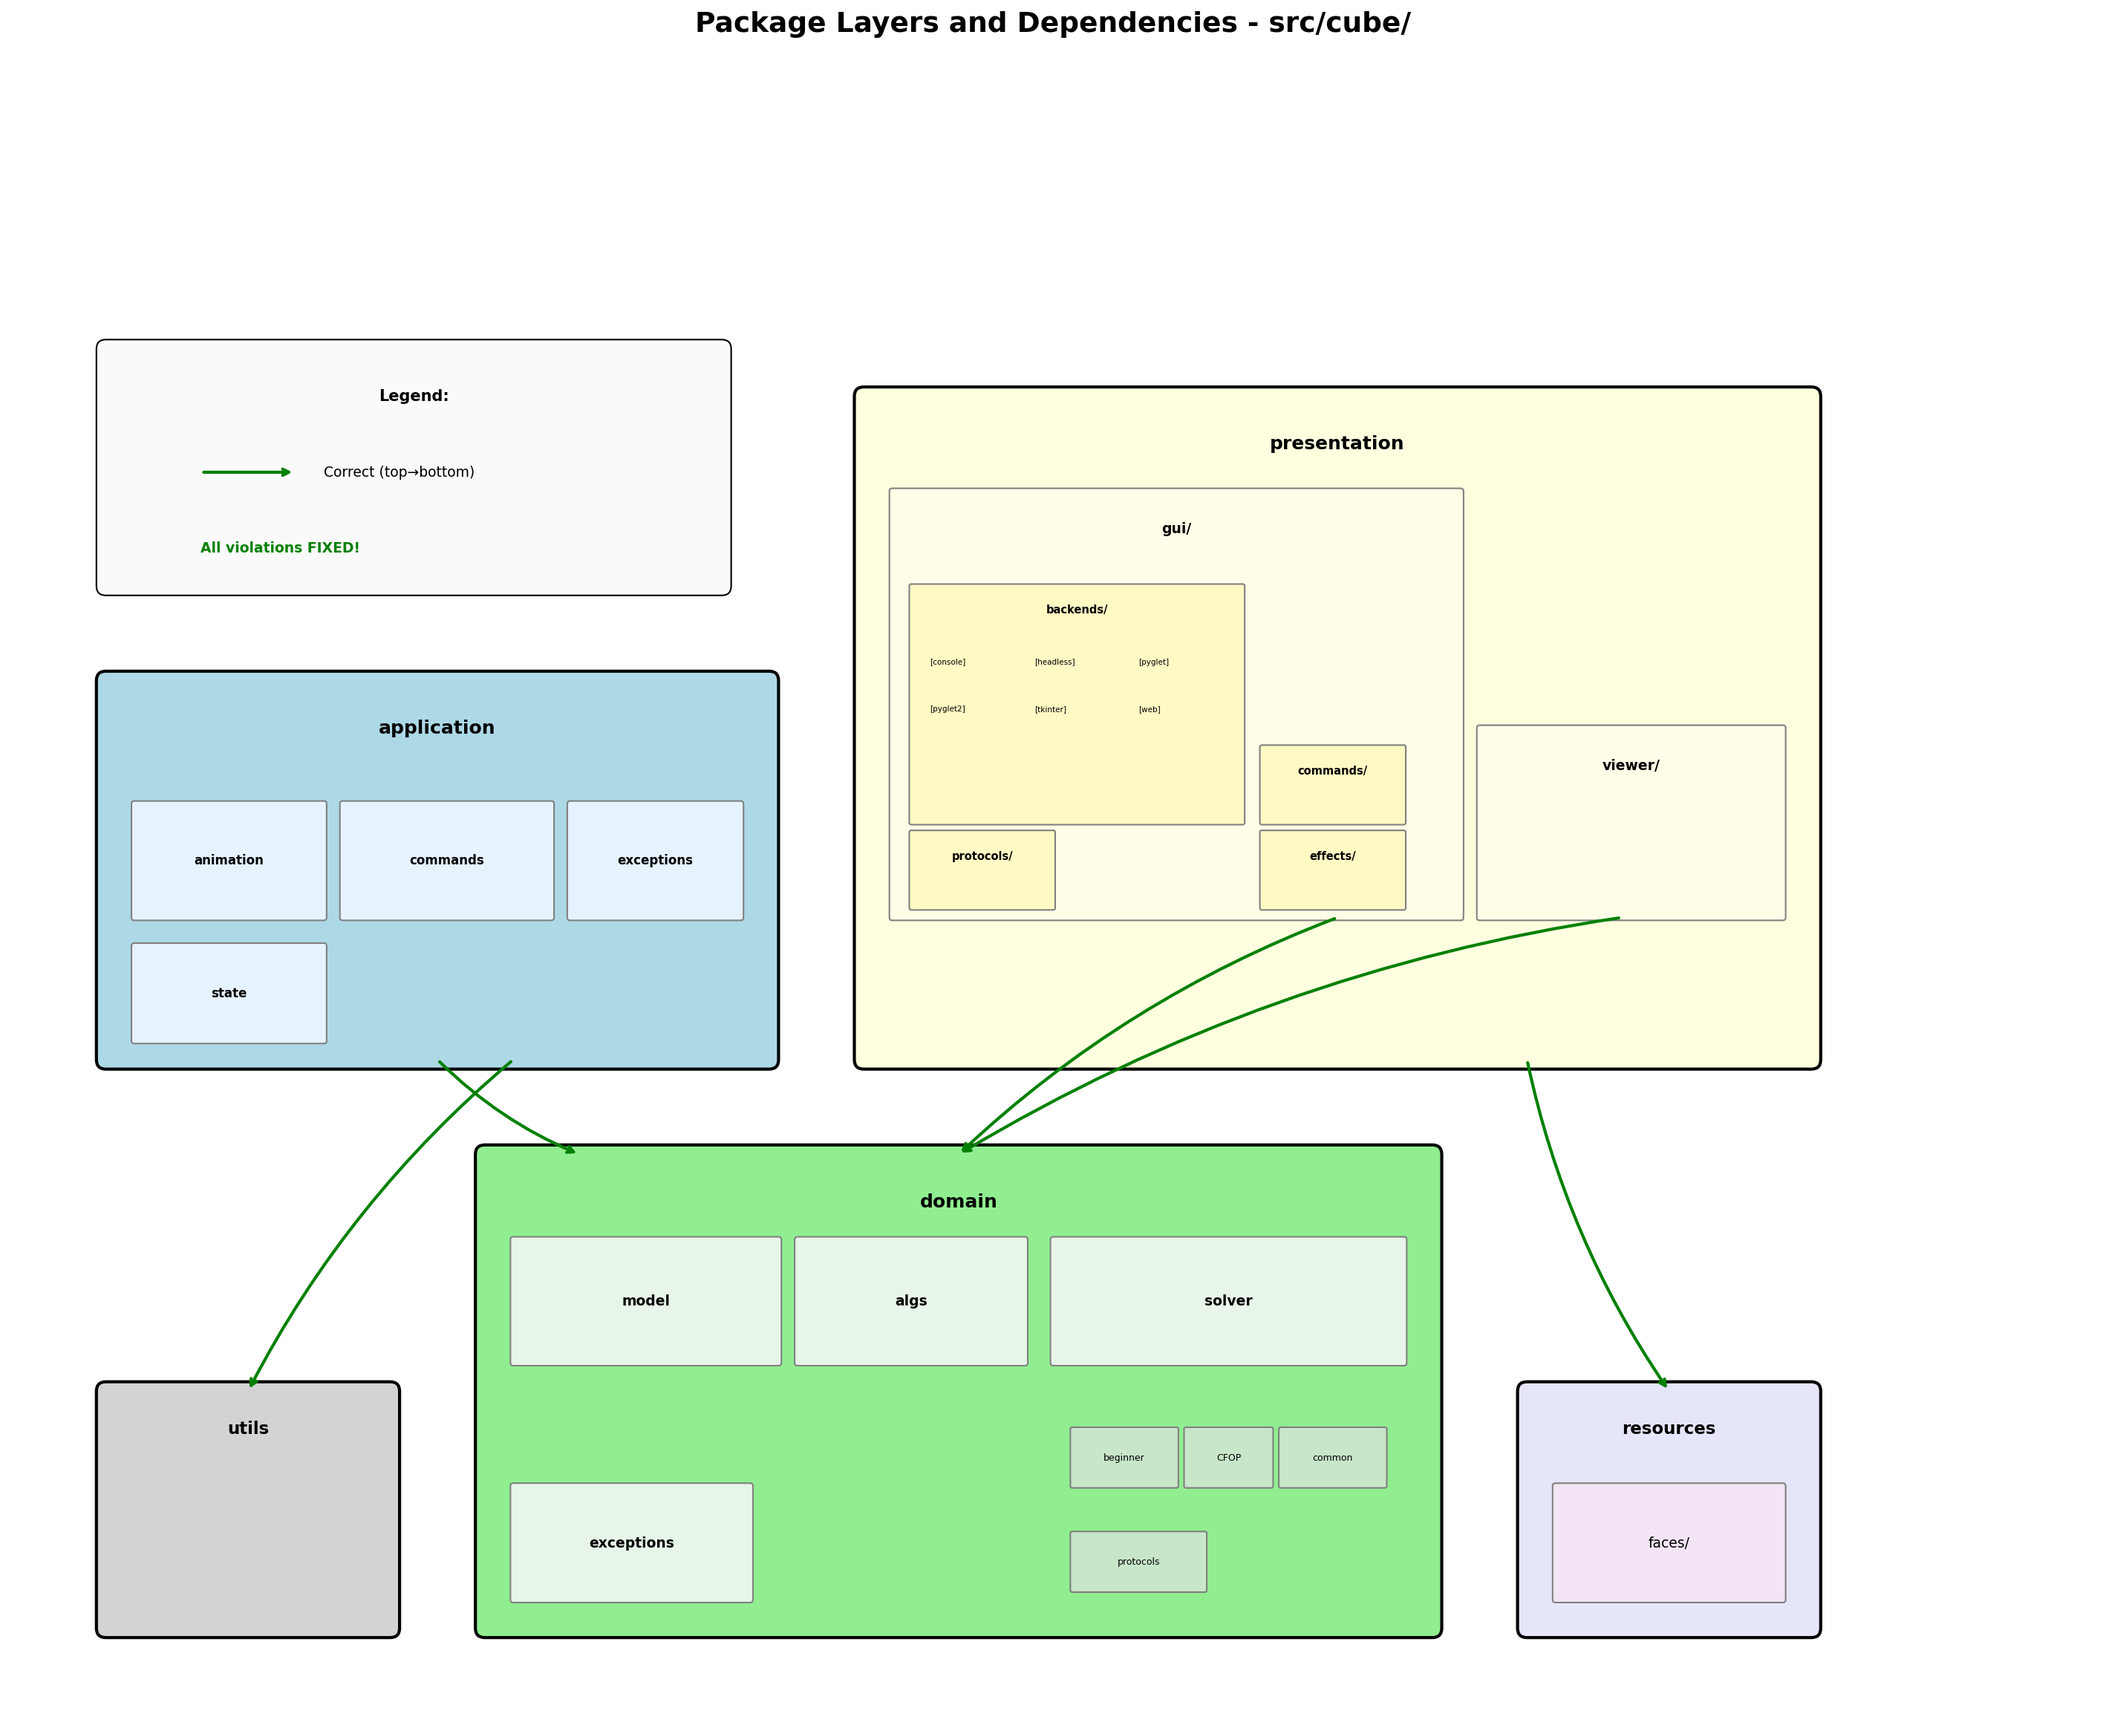
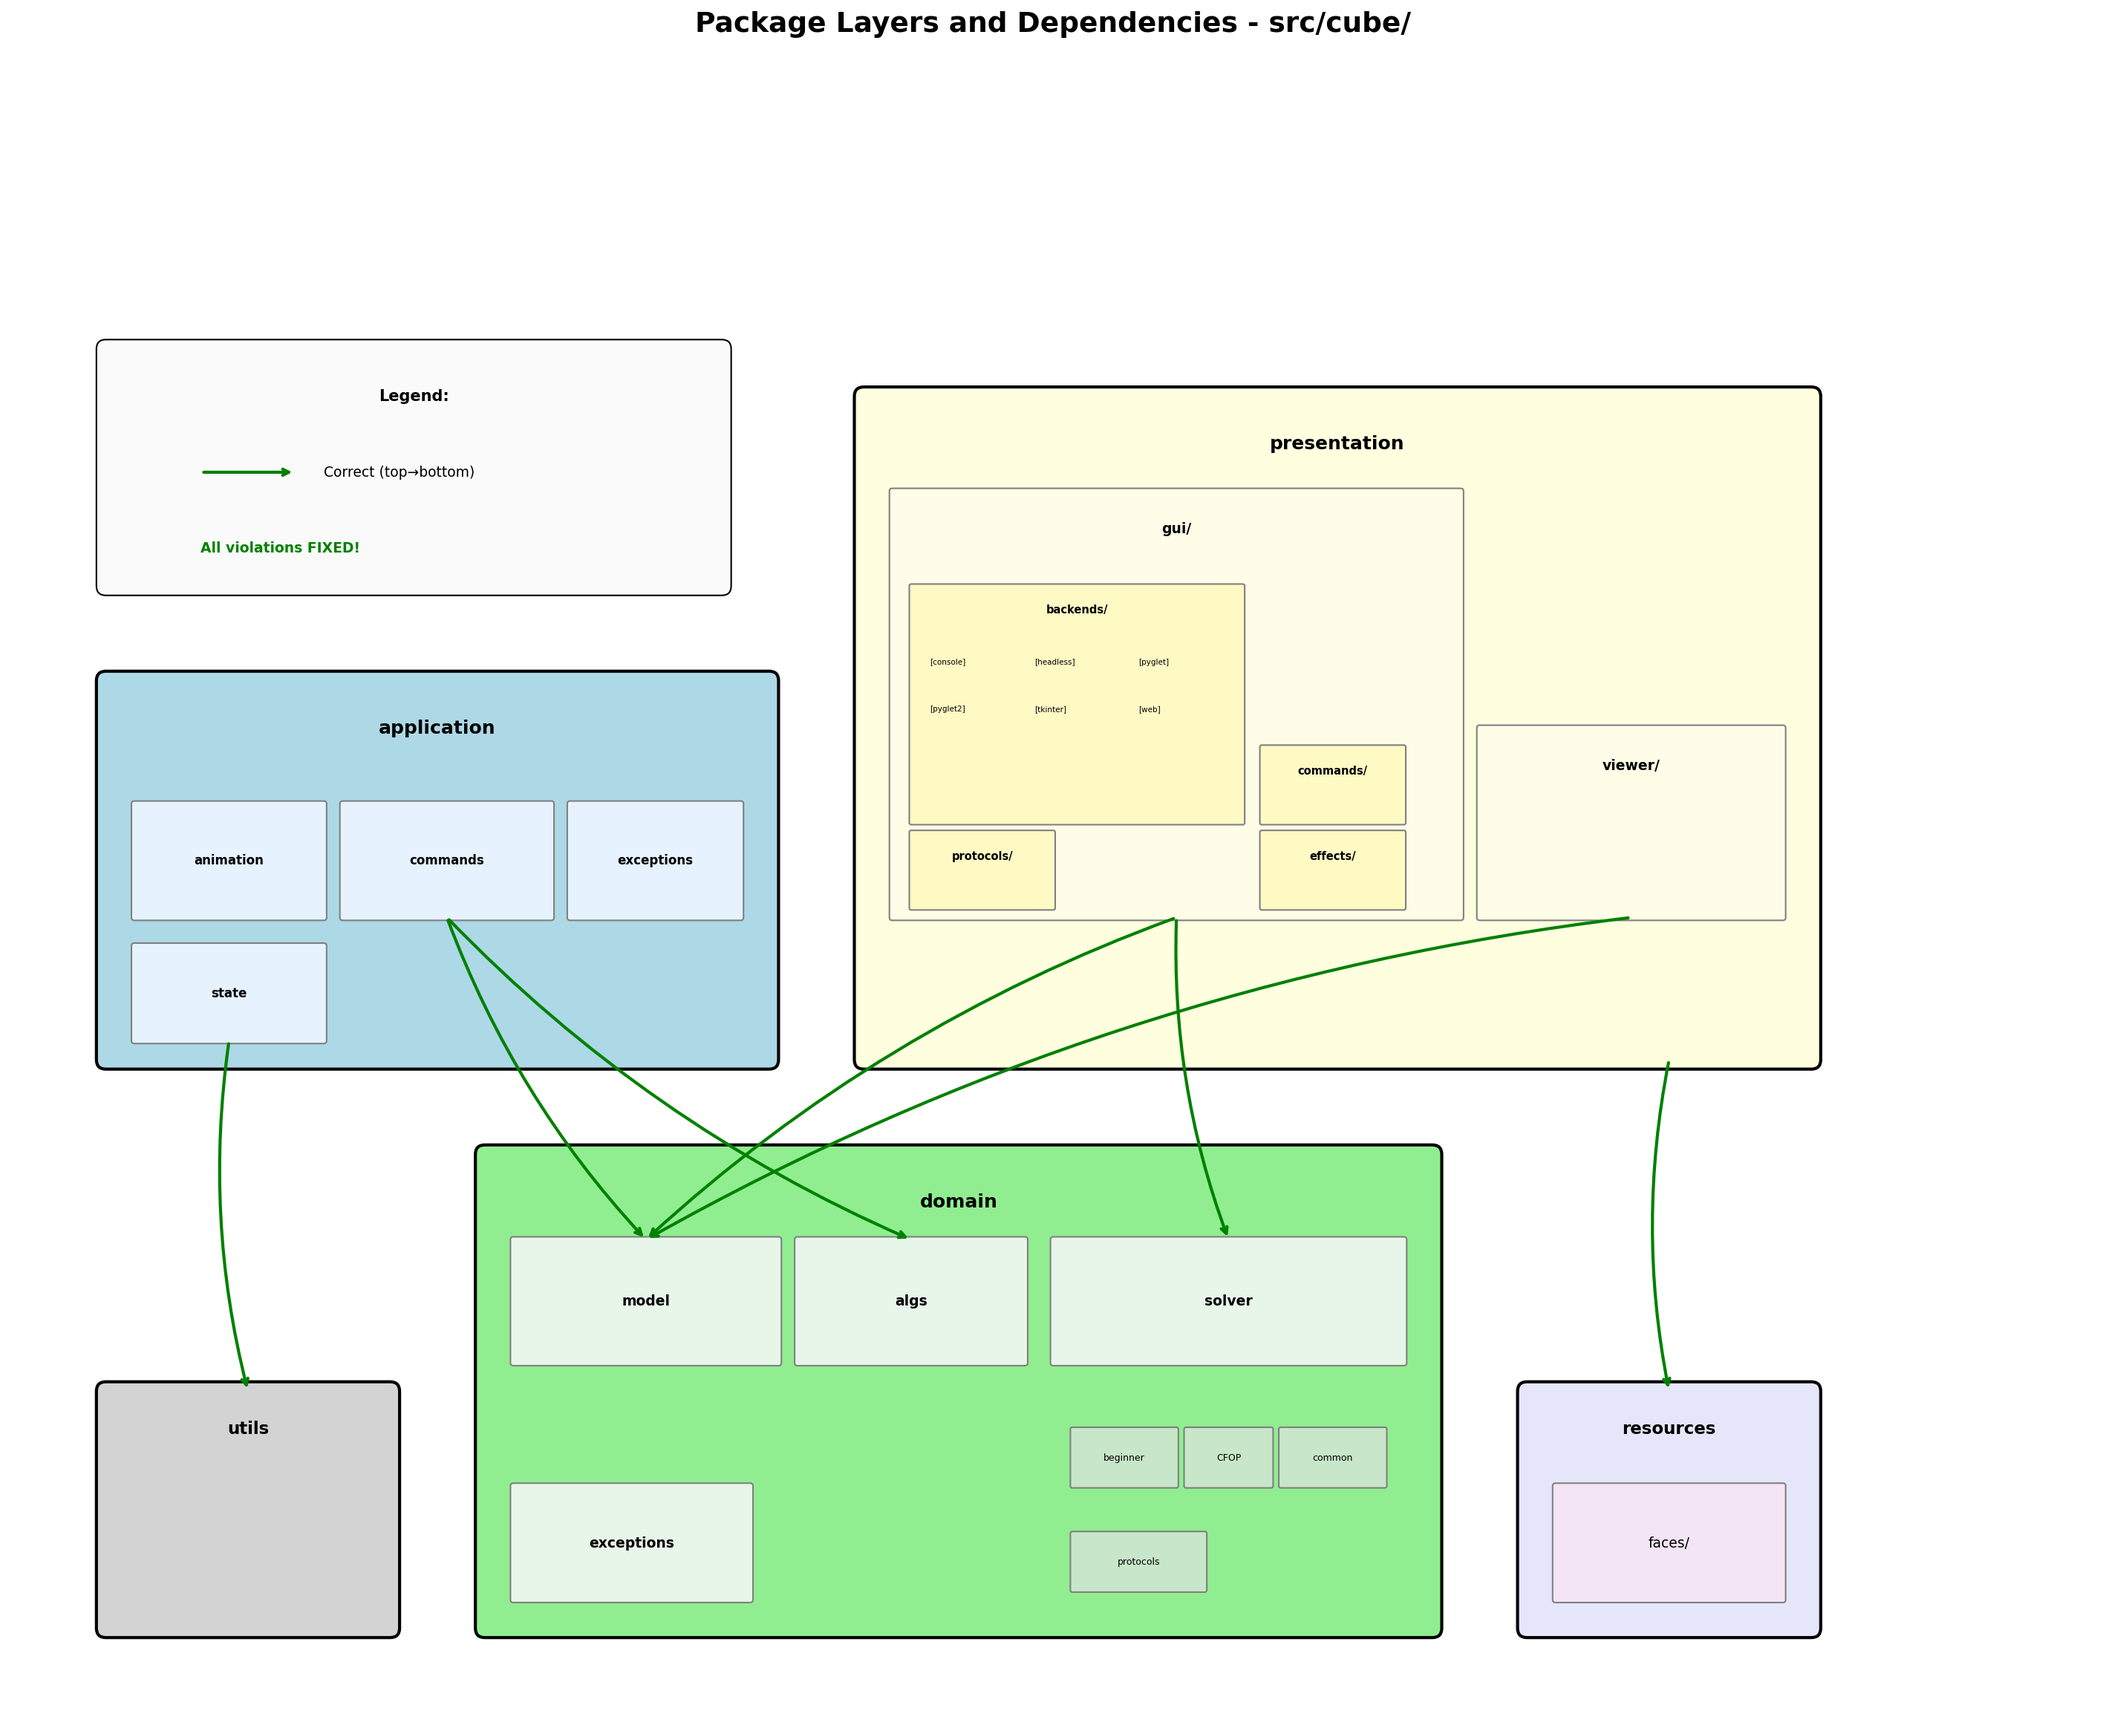
Update diagram arrows to point to specific sublayers
Arrows now connect to the actual second-level packages (model, algs,
solver, etc.) instead of just the first-level layer boundaries.

🤖 Generated with [Claude Code](https://claude.com/claude-code)

diff --git a/design2/images/generate_layers_diagrams.py b/design2/images/generate_layers_diagrams.py
@@ -459,12 +459,19 @@ def create_combined_layers_diagram():
                     color=color, fontweight='bold',
                     bbox=dict(boxstyle='round', facecolor='white', alpha=0.8))
 
-    # CORRECT (gray/green) arrows - top to bottom
-    arrow(3.5, 6, 5, 5, 'green')       # app.commands -> domain.model
-    arrow(13, 7.5, 9, 5, 'green')      # pres.gui -> domain
-    arrow(16, 7.5, 9, 5, 'green')      # pres.viewer -> domain.model
-    arrow(4.3, 6, 1.5, 2.5, 'green')   # app -> utils
-    arrow(15, 6, 16.5, 2.5, 'green')   # pres -> resources
+    # CORRECT (gray/green) arrows - top to bottom, pointing to specific sublayers
+    # Sublayer centers:
+    # - app.commands: (3.6, 8.1), app.animation: (1.3, 8.1)
+    # - dom.model: (5.7, 3.45), dom.algs: (8.5, 3.45), dom.solver: (11.85, 3.45)
+    # - pres.gui: (11.3, 9.75), pres.viewer: (16.1, 8.5)
+
+    arrow(3.6, 7.5, 5.7, 4.1, 'green')      # app.commands -> domain.model
+    arrow(3.6, 7.5, 8.5, 4.1, 'green')      # app.commands -> domain.algs
+    arrow(11.3, 7.5, 11.85, 4.1, 'green')   # pres.gui -> domain.solver
+    arrow(11.3, 7.5, 5.7, 4.1, 'green')     # pres.gui -> domain.model
+    arrow(16.1, 7.5, 5.7, 4.1, 'green')     # pres.viewer -> domain.model
+    arrow(1.3, 6.2, 1.5, 2.5, 'green')      # app.state -> utils
+    arrow(16.5, 6, 16.5, 2.5, 'green')      # pres -> resources
 
     # All violations FIXED - no red arrows needed
     # V1 FIXED - domain.exceptions created
